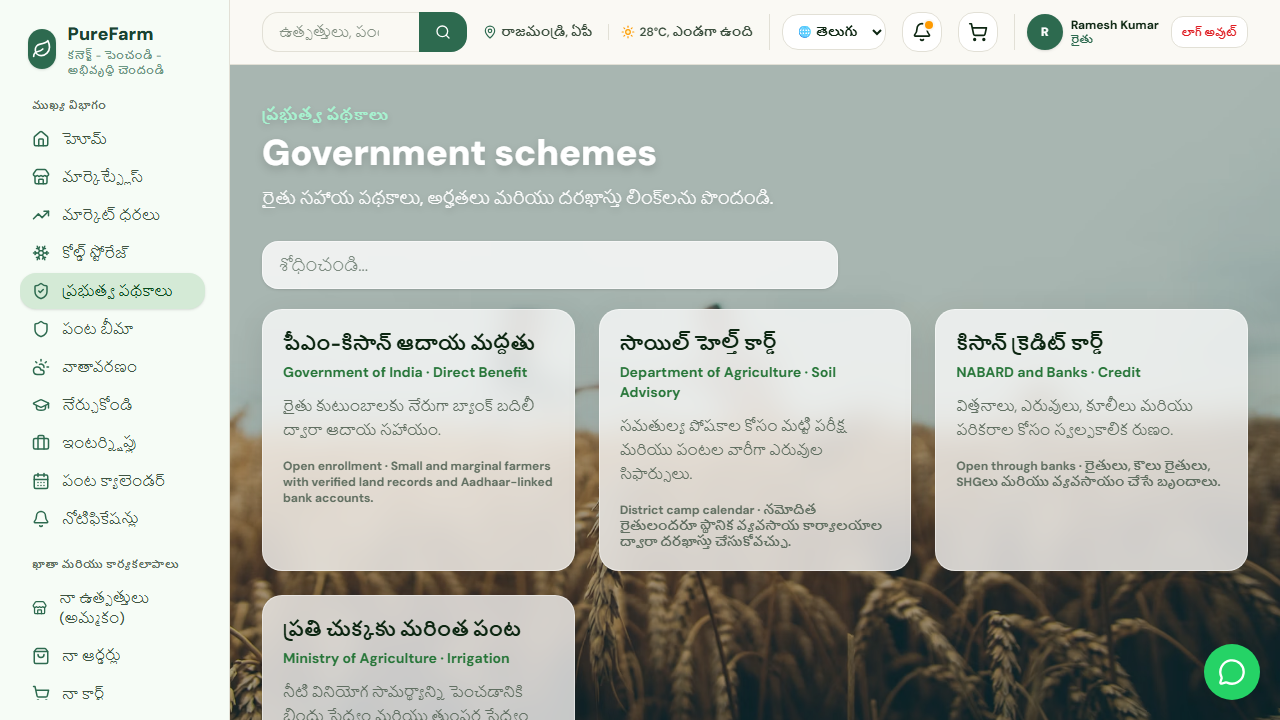
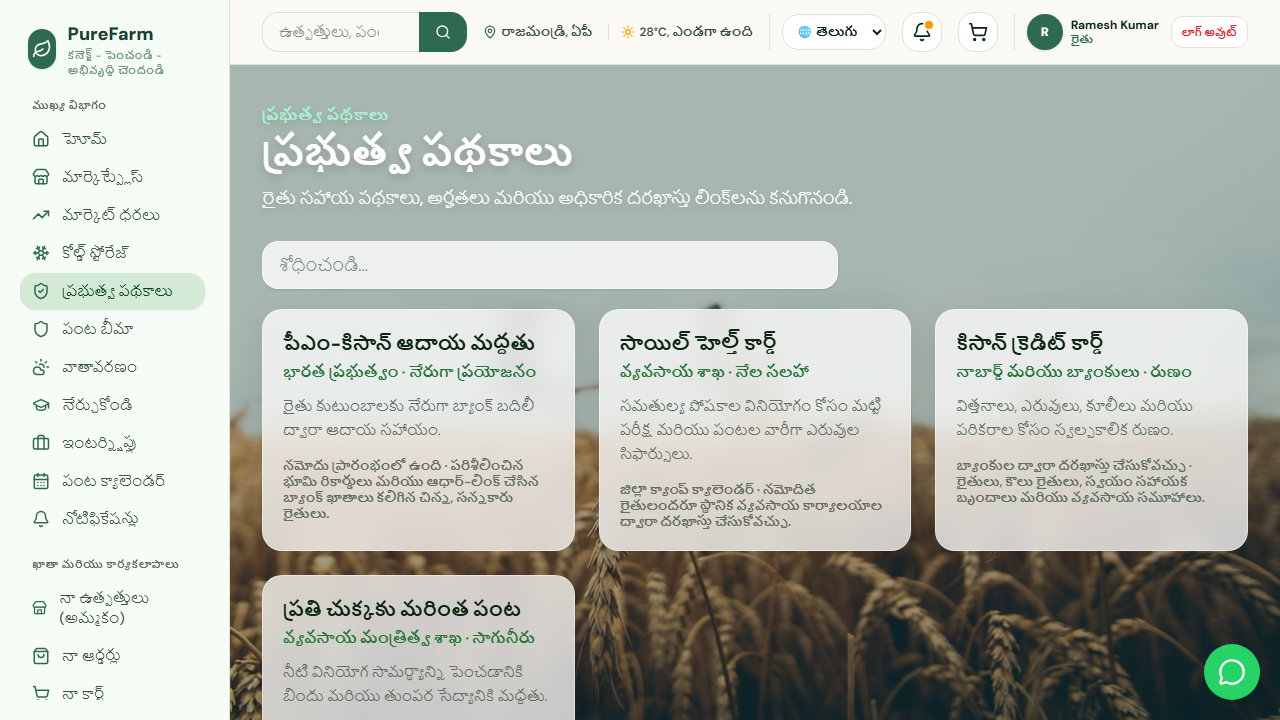
fix: translate weather forecast cards, days, conditions, and advisories to Telugu

diff --git a/src/i18n/translations.ts b/src/i18n/translations.ts
@@ -217,6 +217,7 @@ export const translations: Record<Language, Record<string, string>> = {
     "Deep dive into arrays, linked lists, trees, graphs, sorting, and dynamic programming.": "Deep dive into arrays, linked lists, trees, graphs, sorting, and dynamic programming.",
     "DeepAgri Intelligence": "DeepAgri Intelligence",
     "Defined reference unit area tied to localized IMD or private automated weather station network data.": "Defined reference unit area tied to localized IMD or private automated weather station network data.",
+    "Delay pesticide spray until leaf surface dries.": "Delay pesticide spray until leaf surface dries.",
     "Delete": "Delete",
     "Delhi": "Delhi",
     "Delivered": "Delivered",
@@ -383,6 +384,7 @@ export const translations: Record<Language, Record<string, string>> = {
     "Hot": "Hot",
     "How can PureFarm help?": "How can PureFarm help?",
     "Humic Acid Granules (5 kg)": "Humic Acid Granules (5 kg)",
+    "Humid sunshine": "Humid sunshine",
     "Humidity": "Humidity",
     "Humidity control: Automated 85%-95% RH": "Humidity control: Automated 85%-95% RH",
     "Hybrid": "Hybrid",
@@ -405,6 +407,7 @@ export const translations: Record<Language, Record<string, string>> = {
     "Intermediate": "Intermediate",
     "Internship Opportunities": "Internship Opportunities",
     "Internships": "Internships",
+    "Irrigate vegetables in the evening and avoid urea spray after noon.": "Irrigate vegetables in the evening and avoid urea spray after noon.",
     "Irrigation": "Irrigation",
     "Issue Date": "Issue Date",
     "Issuer": "Issuer",
@@ -416,6 +419,7 @@ export const translations: Record<Language, Record<string, string>> = {
     "Kadiyam, Rajahmundry Rural, Andhra Pradesh - 533126": "Kadiyam, Rajahmundry Rural, Andhra Pradesh - 533126",
     "Karnal Mandi": "Karnal Mandi",
     "Karnal, Haryana": "Karnal, Haryana",
+    "Keep harvested grain covered; good window for transplanting paddy.": "Keep harvested grain covered; good window for transplanting paddy.",
     "Kharif 2%, Rabi 1.5%, commercial crops 5%": "Kharif 2%, Rabi 1.5%, commercial crops 5%",
     "Kharif Season": "Kharif Season",
     "Kilogram (kg)": "Kilogram (kg)",
@@ -631,6 +635,7 @@ export const translations: Record<Language, Record<string, string>> = {
     "Remote": "Remote",
     "Remove": "Remove",
     "Rent Rate": "Rent Rate",
+    "Resume interculture in maize and apply mulch to nursery beds.": "Resume interculture in maize and apply mulch to nursery beds.",
     "Rhizobium Biofertiliser (500 g)": "Rhizobium Biofertiliser (500 g)",
     "Rotavator 5 Feet": "Rotavator 5 Feet",
     "Rs. 12,000/month": "Rs. 12,000/month",
@@ -652,6 +657,7 @@ export const translations: Record<Language, Record<string, string>> = {
     "Save": "Save",
     "Scheme Details": "Scheme Details",
     "Schemes": "Schemes",
+    "Scout cotton for jassid after humid nights.": "Scout cotton for jassid after humid nights.",
     "Search Courses": "Search Courses",
     "Search Internships": "Search Internships",
     "Search Mandi Prices": "Search Mandi Prices",
@@ -761,6 +767,7 @@ export const translations: Record<Language, Record<string, string>> = {
     "Terms of Service": "Terms of Service",
     "Thank you for your order.": "Thank you for your order.",
     "Thu": "Thu",
+    "Today": "Today",
     "Today's Mandi Feeds": "Today's Mandi Feeds",
     "Together for a prosperous future": "Together for a prosperous future",
     "Tomato": "Tomato",
@@ -866,6 +873,7 @@ export const translations: Record<Language, Record<string, string>> = {
     "fertilizers": "fertilizers",
     "km away": "km away",
     "products found": "products found",
+    "rain": "rain",
     "seeds": "seeds",
     "tools": "tools",
   },
@@ -1031,7 +1039,7 @@ export const translations: Record<Language, Record<string, string>> = {
     "Cloud & DevOps": "క్లౌడ్ & దేవాప్స్",
     "Cloud Computing": "క్లౌడ్ కంప్యూటింగ్",
     "Cloud Native Guild": "క్లౌడ్ నేటివ్ గిల్డ్",
-    "Cloudy intervals": "మబ్బులతో కూడిన వాతావరణం",
+    "Cloudy intervals": "కొంతసేపు మేఘావృతం",
     "CodeCraft Institute": "కోడ్క్రాఫ్ట్ ఇన్స్టిట్యూట్",
     "Cold Storage": "కోల్డ్ స్టోరేజ్",
     "Cold Storage Facilities": "కోల్డ్ స్టోరేజ్ కేంద్రాలు",
@@ -1086,6 +1094,7 @@ export const translations: Record<Language, Record<string, string>> = {
     "Deep dive into arrays, linked lists, trees, graphs, sorting, and dynamic programming.": "అర్రేలు, లింక్డ్ లిస్ట్లు, ట్రీలు మరియు ఆల్గారిథమ్ల సమగ్ర అధ్యయనం.",
     "DeepAgri Intelligence": "డీప్అగ్రి ఇంటెలిజెన్స్",
     "Defined reference unit area tied to localized IMD or private automated weather station network data.": "స్థానిక IMD లేదా స్వయంచాలక వాతావరణ కేంద్రం డేటాకు అనుసంధానించబడిన ప్రాంతం.",
+    "Delay pesticide spray until leaf surface dries.": "ఆకుల ఉపరితలం ఎండిపోయే వరకు పురుగుమందుల పిచికారీని వాయిదా వేయండి.",
     "Delete": "తొలగించు",
     "Delhi": "ఢిల్లీ",
     "Delivered": "రవాణా పూర్తయింది",
@@ -1160,7 +1169,7 @@ export const translations: Record<Language, Record<string, string>> = {
     "Farm Tools": "వ్యవసాయ పరికరాలు",
     "Farm alerts": "వ్యవసాయ హెచ్చరికలు",
     "Farm input marketplace": "వ్యవసాయ ఇన్పుట్ మార్కెట్",
-    "Farm weather advisory": "వ్యవసాయ వాతావరణ సలహా",
+    "Farm weather advisory": "పంటల వాతావరణ సలహా",
     "Farmer": "రైతు",
     "Farmer / Seller": "రైతు / అమ్మకందారు",
     "Farmer Access Only": "రైతులకు మాత్రమే ప్రవేశం",
@@ -1191,7 +1200,7 @@ export const translations: Record<Language, Record<string, string>> = {
     "Find fresh crops, fruits, seeds, and equipment": "తాజా పంటలు, పండ్లు, విత్తనాలు మరియు పరికరాలను శోధించండి",
     "Find nearby cold storage facilities for your produce, check live capacity, and lock in preservation.": "మీ ఉత్పత్తుల కోసం సమీపంలోని కోల్డ్ స్టోరేజ్ కేంద్రాలను కనుగొని, అందుబాటులో ఉన్న సామర్థ్యాన్ని తనిఖీ చేసి, నిల్వను ఏర్పాటు చేసుకోండి.",
     "Finger Millet Seed GPU-28 (5 kg)": "రాగుల విత్తనం GPU-28 (5 కిలోలు)",
-    "Five-day local forecast with field action notes.": "పొలం పనుల మార్గదర్శకాలతో ఐదు రోజుల వాతావరణ సూచన.",
+    "Five-day local forecast with field action notes.": "పొలం పనుల సలహాలతో 5 రోజుల స్థానిక సూచన.",
     "Flowering": "పూత దశ",
     "Fogger Machine Portable": "పోర్టబుల్ ఫాగర్ మెషిన్",
     "Food, Oilseeds & Annual Crops": "ఆహార ధాన్యాలు, నూనెగింజలు & వార్షిక పంటలు",
@@ -1199,7 +1208,7 @@ export const translations: Record<Language, Record<string, string>> = {
     "Fresh Produce & Quality Agri Products Delivered": "తాజా వ్యవసాయ ఉత్పత్తులు డెలివరీ చేయబడతాయి",
     "Fresh Tomatoes": "తాజా టమాటాలు",
     "Fresh Vegetables": "తాజా కూరగాయలు",
-    "Fri": "శుక్ర",
+    "Fri": "శుక్రవారం",
     "Frontend & Web": "ఫ్రంట్ ఎండ్ & వెబ్",
     "Frontend Development Intern": "ఫ్రంట్ఎండ్ డెవలప్మెంట్ ఇంటర్న్",
     "Fruits": "పండ్లు",
@@ -1252,6 +1261,7 @@ export const translations: Record<Language, Record<string, string>> = {
     "Hot": "హాట్",
     "How can PureFarm help?": "PureFarm మీకు ఎలా సహాయపడుతుంది?",
     "Humic Acid Granules (5 kg)": "హ్యూమిక్ యాసిడ్ గుళికలు (5 కిలోలు)",
+    "Humid sunshine": "తేమతో కూడిన ఎండ",
     "Humidity": "తేమ",
     "Humidity control: Automated 85%-95% RH": "తేమ నియంత్రణ: స్వయంచాలక 85%-95% RH",
     "Hybrid": "హైబ్రిడ్",
@@ -1274,6 +1284,7 @@ export const translations: Record<Language, Record<string, string>> = {
     "Intermediate": "మధ్యస్థ దశ",
     "Internship Opportunities": "ఇంటర్న్షిప్ అవకాశాలు",
     "Internships": "ఇంటర్న్షిప్లు",
+    "Irrigate vegetables in the evening and avoid urea spray after noon.": "సాయంత్రం కూరగాయలకు నీరు పెట్టండి మరియు మధ్యాహ్నం తర్వాత యూరియా పిచికారీ చేయడం నివారించండి.",
     "Irrigation": "సాగునీరు",
     "Issue Date": "జారీ చేసిన తేదీ",
     "Issuer": "మంజూరు చేసిన శాఖ",
@@ -1285,6 +1296,7 @@ export const translations: Record<Language, Record<string, string>> = {
     "Kadiyam, Rajahmundry Rural, Andhra Pradesh - 533126": "కడియం, రాజమండ్రి గ్రామీణ, ఆంధ్రప్రదేశ్ - 533126",
     "Karnal Mandi": "కర్నాల్ మండీ",
     "Karnal, Haryana": "కర్నాల్, హర్యానా",
+    "Keep harvested grain covered; good window for transplanting paddy.": "కోత చేసిన ధాన్యాన్ని కప్పి ఉంచండి; వరి నాట్లు వేయడానికి ఇది అనుకూల సమయం.",
     "Kharif 2%, Rabi 1.5%, commercial crops 5%": "ఖరీఫ్ 2%, రబీ 1.5%, వాణిజ్య పంటలు 5%",
     "Kharif Season": "ఖరీఫ్ సీజన్",
     "Kilogram (kg)": "కిలోగ్రామ్ (కిలో)",
@@ -1346,7 +1358,7 @@ export const translations: Record<Language, Record<string, string>> = {
     "Mobile Number": "మొబైల్ సంఖ్య",
     "Modal Price": "సగటు ధర",
     "Modern farm machinery helps farmers work smarter, faster and more efficiently.": "ఆధునిక వ్యవసాయ పరికరాలు రైతులు మరింత తెలివిగా, వేగంగా మరియు సమర్థవంతంగా పనిచేయడానికి సహాయపడతాయి.",
-    "Mon": "సోమ",
+    "Mon": "సోమవారం",
     "Monitor database health, oversee user profiles, and manage system operations.": "డేటాబేస్ స్థితిని పర్యవేక్షించండి మరియు సిస్టమ్ కార్యకలాపాలను నిర్వహించండి.",
     "More Information": "మరింత సమాచారం",
     "Muskmelon Seed Hara Madhu (100 g)": "కర్బూజ విత్తనం హరా మధు (100 గ్రాములు)",
@@ -1412,7 +1424,7 @@ export const translations: Record<Language, Record<string, string>> = {
     "Paddy mandi price up in Amritsar": "అమృతసర్లో వరి మండీ ధర పెరిగింది",
     "Panchagavya Organic Tonic (5 litre)": "పంచగవ్య సేంద్రీయ టానిక్ (5 లీటర్లు)",
     "Papaya Seed Red Lady (10 g)": "బొప్పాయి విత్తనం రెడ్ లేడీ (10 గ్రాములు)",
-    "Partly cloudy": "పాక్షికంగా మబ్బులు",
+    "Partly cloudy": "పాక్షికంగా మేఘావృతం",
     "Passcode / Password": "పాస్వర్డ్",
     "Password": "పాస్వర్డ్",
     "Past 30 Days": "గత 30 రోజులు",
@@ -1500,6 +1512,7 @@ export const translations: Record<Language, Record<string, string>> = {
     "Remote": "రిమోట్ (ఇంటి నుండి)",
     "Remove": "తీసివేయి",
     "Rent Rate": "అద్దె ధర",
+    "Resume interculture in maize and apply mulch to nursery beds.": "మొక్కజొన్నలో అంతరకృషిని తిరిగి ప్రారంభించి, నర్సరీ బెడ్లకు మల్చ్ వేయండి.",
     "Rhizobium Biofertiliser (500 g)": "రైజోబియం జీవ ఎరువు (500 గ్రాములు)",
     "Rotavator 5 Feet": "రోటవేటర్ 5 ఫీట్లు",
     "Rs. 12,000/month": "₹ 12,000 / నెల",
@@ -1517,10 +1530,11 @@ export const translations: Record<Language, Record<string, string>> = {
     "SPONSOR": "స్పాన్సర్",
     "STATUS": "స్థితి",
     "STIPEND": "స్టైపెండ్",
-    "Sat": "శని",
+    "Sat": "శనివారం",
     "Save": "సేవ్ చేయండి",
     "Scheme Details": "పథకం వివరాలు",
     "Schemes": "ప్రభుత్వ పథకాలు",
+    "Scout cotton for jassid after humid nights.": "తేమతో కూడిన రాత్రుల తర్వాత పత్తి పంటలో జాసిడ్ పురుగులను పరిశీలించండి.",
     "Search Courses": "కోర్సులను శోధించండి",
     "Search Internships": "ఇంటర్న్షిప్లను శోధించండి",
     "Search Mandi Prices": "మండీ ధరలను శోధించండి",
@@ -1609,7 +1623,7 @@ export const translations: Record<Language, Record<string, string>> = {
     "Sugarcane Seed Sett Co-0238 (100 setts)": "చెరకు విత్తనం Co-0238 (100 ముక్కలు)",
     "Sulphur 90% WDG (5 kg)": "సల్ఫర్ 90% WDG (5 కిలోలు)",
     "Sum insured based on district crop notification and scale of finance.": "జిల్లా పంట నోటిఫికేషన్ ఆధారంగా ఇన్సూరెన్స్ పరిమితి.",
-    "Sun": "ఆది",
+    "Sun": "ఆదివారం",
     "Sunflower Seed KBSH-44 (5 kg)": "పొద్దుతిరుగుడు విత్తనం KBSH-44 (5 కిలోలు)",
     "Sunny": "ఎండగా ఉంది",
     "Supplier": "సరఫరాదారు",
@@ -1629,7 +1643,8 @@ export const translations: Record<Language, Record<string, string>> = {
     "Temperature range: -2°C to +8°C (Multi-commodity)": "ఉష్ణోగ్రత పరిధి: -2°C నుండి +8°C",
     "Terms of Service": "సేవా నిబంధనలు",
     "Thank you for your order.": "మీ ఆర్డర్కు ధన్యవాదాలు.",
-    "Thu": "గురు",
+    "Thu": "గురువారం",
+    "Today": "ఈరోజు",
     "Today's Mandi Feeds": "నేటి మండీ వివరాలు",
     "Together for a prosperous future": "సమృద్ధిగా ఉన్న భవిష్యత్తు కోసం కలిసి",
     "Tomato": "టమాటో",
@@ -1652,7 +1667,7 @@ export const translations: Record<Language, Record<string, string>> = {
     "Trichoderma Viride Bio-fungicide (1 kg)": "ట్రైకోడెర్మా విరిడే జీవ శిలీంధ్ర నాశిని (1 కిలో)",
     "Trusted Information": "నమ్మదగిన సమాచారం",
     "Try another crop input, category, or raise the max price filter.": "మరొక ఉత్పత్తిని లేదా వర్గాన్ని ఎంచుకోండి.",
-    "Tue": "మంగళ",
+    "Tue": "మంగళవారం",
     "Turmeric Rhizome Seed Salem (25 kg)": "పసుపు కొమ్ముల విత్తనం సేలం (25 కిలోలు)",
     "Type:": "రకం:",
     "UNIT": "యూనిట్",
@@ -1704,7 +1719,7 @@ export const translations: Record<Language, Record<string, string>> = {
     "Weather Update": "వాతావరణ సమాచారం",
     "Weather index": "వాతావరణ సూచిక",
     "Web Development": "వెబ్ డెవలప్మెంట్",
-    "Wed": "బుధ",
+    "Wed": "బుధవారం",
     "Weekly Mandi Update": "వారపు మండీ అప్డేట్",
     "Weighing Scale Platform 300 kg": "వేయింగ్ స్కేల్ ప్లాట్ఫారమ్ 300 కిలోలు",
     "Weight / Count": "బరువు / సంఖ్య",
@@ -1735,6 +1750,7 @@ export const translations: Record<Language, Record<string, string>> = {
     "fertilizers": "ఎరువులు",
     "km away": "కి.మీ దూరంలో",
     "products found": "ఉత్పత్తులు కనుగొనబడ్డాయి",
+    "rain": "వర్షం",
     "seeds": "విత్తనాలు",
     "tools": "వ్యవసాయ పరికరాలు",
   }

diff --git a/src/components/pages.tsx b/src/components/pages.tsx
@@ -2778,21 +2778,21 @@ export function WeatherPage() {
     <RoleGuard allowedRoles={["farmer", "buyer", "student", "seller", "admin"]} allowGuest={true}>
       <PageShell
         bgImage="https://images.unsplash.com/photo-1563514227147-6d2ff665a6a0?auto=format&fit=crop&w=2000"
-        eyebrow="Weather"
-        title="Farm weather advisory"
-        intro="Five-day local forecast with field action notes."
+        eyebrow={t("Weather")}
+        title={t("Farm weather advisory")}
+        intro={t("Five-day local forecast with field action notes.")}
       >
         <div className="grid gap-4 md:grid-cols-5">
           {WEATHER.map((day) => (
             <div key={day.day} className={glassCardClass}>
               <CloudSun className="h-8 w-8 text-primary" />
-              <p className="mt-3 font-black">{day.day}</p>
-              <p className="text-sm text-muted-foreground">{day.condition}</p>
+              <p className="mt-3 font-black">{t(day.day)}</p>
+              <p className="text-sm text-muted-foreground">{t(day.condition)}</p>
               <p className="mt-3 text-2xl font-black">
                 {day.high}° / {day.low}°
               </p>
-              <p className="mt-1 text-sm font-bold text-primary">{day.rain}% rain</p>
-              <p className="mt-3 text-sm leading-6 text-muted-foreground">{day.advisory}</p>
+              <p className="mt-1 text-sm font-bold text-primary">{day.rain}% {t("rain")}</p>
+              <p className="mt-3 text-sm leading-6 text-muted-foreground">{t(day.advisory)}</p>
             </div>
           ))}
         </div>
@@ -2839,8 +2839,8 @@ export function CropCalendarPage() {
                   ["Water", crop.water],
                 ].map(([a, b]) => (
                   <div key={a} className="rounded-lg bg-muted p-3">
-                    <p className="text-xs font-bold uppercase text-muted-foreground">{t(a)}</p>
-                    <p className="font-black">{t(b)}</p>
+                    <p className="text-xs font-bold uppercase text-muted-foreground">{t(a ?? "")}</p>
+                    <p className="font-black">{t(b ?? "")}</p>
                   </div>
                 ))}
               </div>
@@ -2920,7 +2920,7 @@ export function CoursesPage() {
                   <span className="text-xs text-muted-foreground font-semibold">{c.hours} {t("hrs")} · {c.lessons} {t("lessons")}</span>
                 </div>
                 <h3 className="text-lg font-black text-[#1b4332] leading-snug">{t(c.title)}</h3>
-                <p className="text-xs text-muted-foreground leading-relaxed">{t(c.description)}</p>
+                <p className="text-xs text-muted-foreground leading-relaxed">{t(c.description ?? "")}</p>
               </div>
 
               <div className="space-y-3 pt-3 border-t border-border/60">
@@ -3060,7 +3060,7 @@ export function InternshipsPage() {
                   {t(i.stipend)}
                 </span>
               </div>
-              <p className="text-xs text-muted-foreground leading-relaxed">{t(i.description)}</p>
+              <p className="text-xs text-muted-foreground leading-relaxed">{t(i.description ?? "")}</p>
               <div className="flex flex-wrap gap-1.5">
                 {i.skills.map((skill) => (
                   <span key={skill} className="rounded-md bg-muted px-2.5 py-1 text-[11px] font-bold text-foreground/80">
@@ -3069,7 +3069,7 @@ export function InternshipsPage() {
                 ))}
               </div>
               <div className="pt-3 flex items-center justify-between border-t border-border/60">
-                <span className="text-xs text-muted-foreground font-medium">{t("Deadline")}: {t(i.deadline)}</span>
+                <span className="text-xs text-muted-foreground font-medium">{t("Deadline")}: {t(i.deadline ?? "")}</span>
                 <button
                   type="button"
                   onClick={() => setAppliedId(i.id)}
